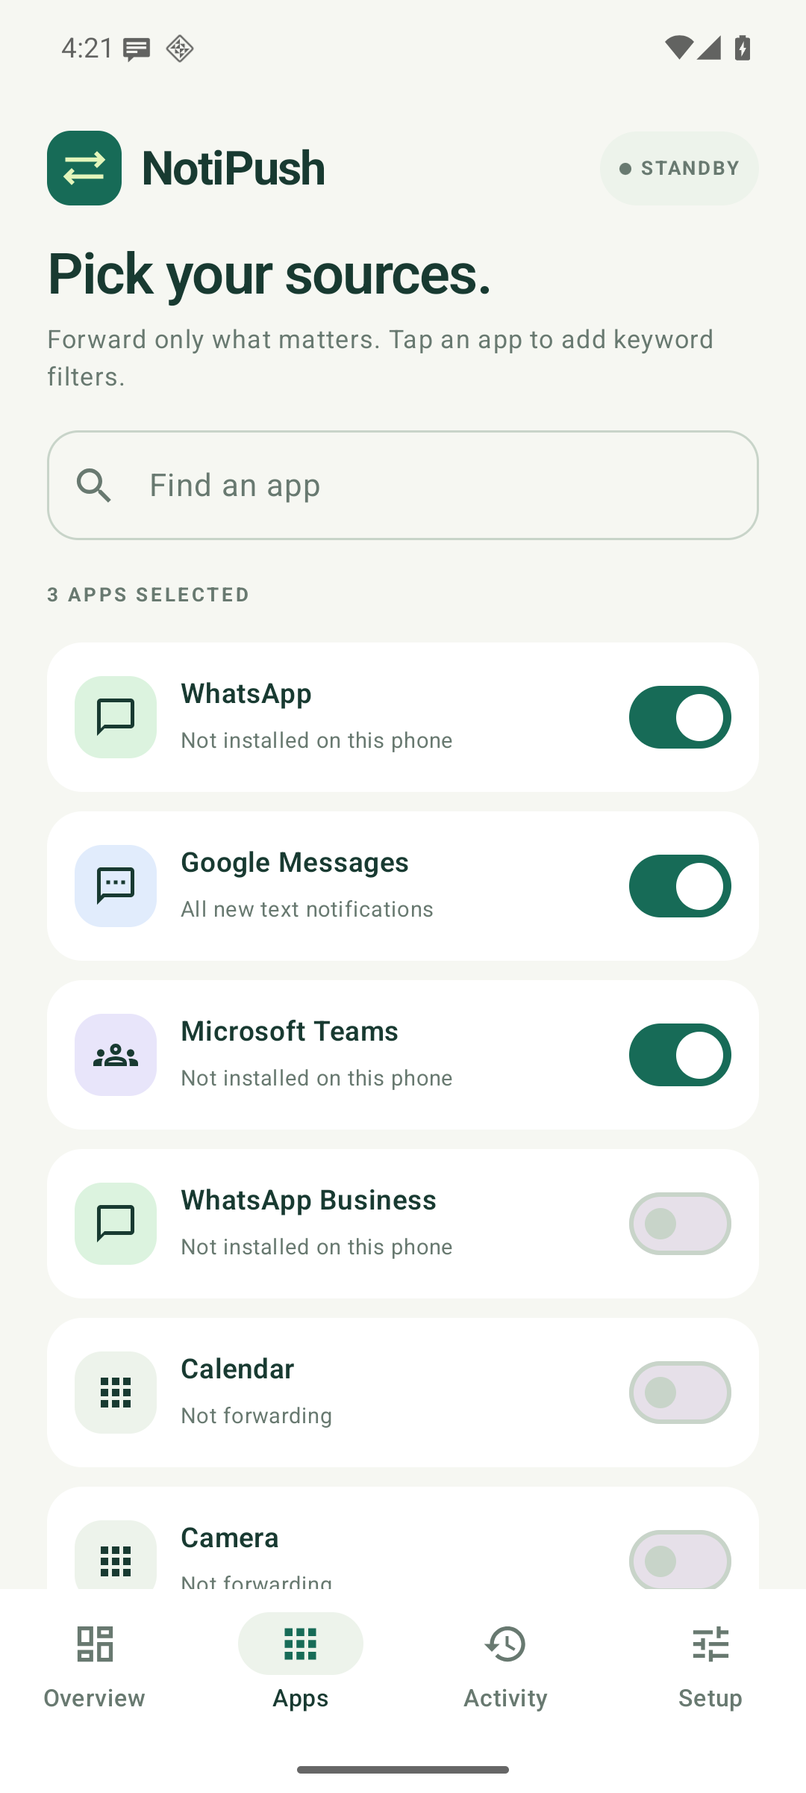
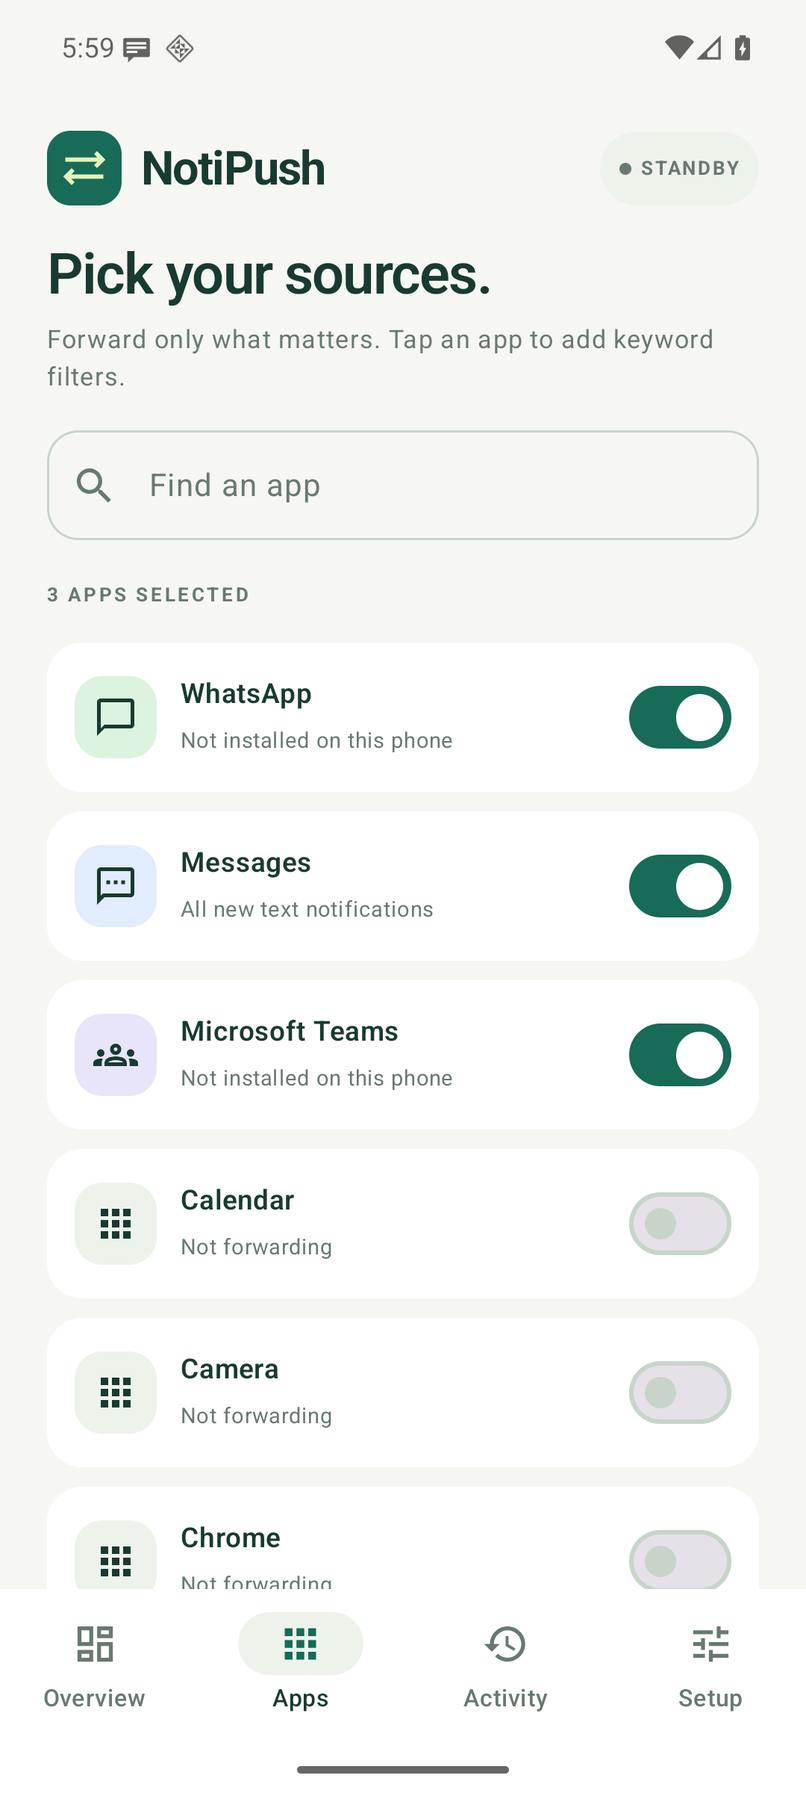
Prepare GitHub documentation and exclude local artifacts
Document installation, foreground delivery, clone-name configuration, verification scope, and release steps. Refresh demo screenshots, add contributor PR guidance and line-ending rules, and exclude runtime databases, diagnostics, debugging keys, signing material, and build outputs.

diff --git a/README.md b/README.md
@@ -14,7 +14,7 @@ WhatsApp · Google Messages · Teams · other selected apps
               iPhone · Apple Watch · other devices
 ```
 
-**Android 16+ · Kotlin · Jetpack Compose · Current release: 1.0.3**
+**Android 16+ · Kotlin · Jetpack Compose · Current release: 1.0.4**
 
 ## Screenshots
 
@@ -24,8 +24,9 @@ WhatsApp · Google Messages · Teams · other selected apps
 
 ## Features
 
-- Select individual apps. WhatsApp, Google Messages, and Microsoft Teams are preselected; WhatsApp Business and other installed launcher apps are available too.
-- Forward the app name, conversation or sender, message text, and original timestamp.
+- Select individual apps. WhatsApp, Messages, and Teams are the three starter apps. Other installed apps are available too; WhatsApp Business is no longer a separate starter entry.
+- Forward the app name, conversation or sender, message text, and original timestamp. OxygenOS WhatsApp copies have separate profile identities and configurable display names.
+- Run a persistent foreground bridge while forwarding is enabled, with a status notification and Pause action.
 - Filter each app by include/exclude keywords, ignoring case.
 - Send to all your Pushover devices or a named device, with low, normal, or high priority.
 - Suppress duplicate updates and group summaries; ignore ongoing notifications by default.
@@ -48,7 +49,7 @@ NotiPush has no service fee. Pushover's client licensing and [message allowance]
 
 Use the signed APK attached to a published GitHub release, when available, or [build a release locally](#build-a-signed-release). This repository keeps generated APKs in the ignored `dist/` directory rather than in Git history.
 
-Open the APK on your Android phone and allow installation from the source you chose when Android prompts. Updates must use the same signing key. Use **1.0.3 or newer** for the locked-phone delivery fix. Version 1.0.1 has a release-only startup crash fixed in 1.0.2. Installing a same-signer update preserves your settings; do not uninstall the working app first.
+Open the APK on your Android phone and allow installation from the source you chose when Android prompts. Updates must use the same signing key. Use **1.0.4 or newer** for persistent forwarding, AOD diagnostics, and separate clone identities. The earlier 1.0.3 change alone did not resolve the reported OnePlus AOD delay. Version 1.0.1 has a release-only startup crash fixed in 1.0.2. Installing a same-signer update preserves your settings; do not uninstall the working app first.
 
 ## Connect Pushover
 
@@ -75,11 +76,11 @@ Tap **Save destination → Send a test notification**. In **Activity**, **Accept
 2. In **Apps**, choose the notification sources you want.
 3. Tap an app to add optional keyword filters. Any include keyword can match; any exclude keyword blocks the notification. Leave both fields empty to forward all eligible text notifications from that app.
 4. In **Setup → Delivery while locked**, tap **Allow background delivery** and approve Android's battery optimization exemption. Confirm this row shows **Battery optimization exemption granted**.
-5. On OnePlus/OxygenOS, also allow background activity under **App info → Battery usage**. Enable auto launch if your build offers it; names vary by OS version.
-6. In **Overview**, turn forwarding on.
+5. On OnePlus/OxygenOS, allow background activity or auto launch **if your build offers those controls**. Some battery pages offer no controls; the app now shows the verified exemption and service state directly. Search system Settings for **Sleep standby optimization** and check whether it is reducing notifications. Do not change undocumented AOD settings.
+6. In **Overview**, turn forwarding on. Allow the status-notification permission when prompted, and check **Setup → Persistent forwarding → Service: running**. You can pause from the ongoing notification. Android can run the service when status notifications are denied, but its notification will be less visible.
 7. Lock the Android phone and receive a **new** message while its source app is in the background. Confirm the Pushover alert arrives before you unlock Android.
 
-After the check, **Setup → Connection check** shows the last capture and acceptance times and whether the screen was off/locked. These timestamps help distinguish a late listener callback from a late send. See [locked-phone troubleshooting](docs/TROUBLESHOOTING.md#notifications-wait-until-the-phone-is-unlocked).
+After the check, **Activity → Show delivery timing** gives the exact Android post, listener arrival, first/latest send attempt, and completion times, with AOD/screen state. **Setup → Recent listener events** also records skipped summaries, ongoing alerts, and cases where Android exposes no message text. See [locked-phone troubleshooting](docs/TROUBLESHOOTING.md#notifications-wait-until-the-phone-is-unlocked).
 
 ### 3. Finish on iPhone and Apple Watch
 
@@ -89,7 +90,7 @@ After the check, **Setup → Connection check** shows the last capture and accep
 
 ## Privacy and delivery behaviour
 
-Credentials and pending message payloads are encrypted using AES-GCM with an Android Keystore key. App backup and device transfer are disabled. Completed history contains the source app, timestamp, and status, without notification titles or bodies. Connection diagnostics retain the latest capture/acceptance times and a screen-off/locked flag only. Screenshots and recent-app previews are protected in the production app.
+Credentials and pending message payloads are encrypted using AES-GCM with an Android Keystore key. App backup and device transfer are disabled. Completed history contains the source app, timestamp, and status, without notification titles or bodies. Connection diagnostics retain post/receive/send times, display/power state, attempt counts, and metadata about the last 20 eligible-source listener callbacks. They contain no message titles, bodies, or Pushover keys. Screenshots and recent-app previews are protected in the production app.
 
 Forwarded text is sent directly to Pushover over HTTPS. **This integration is not end-to-end encrypted with Pushover**: Pushover can process the forwarded content. There is no NotiPush server, analytics SDK, or advertising SDK.
 
@@ -105,11 +106,17 @@ Forwarded text is sent directly to Pushover over HTTPS. **This integration is no
 
 Pausing forwarding, disabling an app, or changing the destination cancels the corresponding queued messages. A request already in flight may still arrive. Failed payloads are erased and cannot be replayed from history. If a network response is lost after Pushover accepts a request, a retry can produce a duplicate.
 
+### Names for cloned apps
+
+OxygenOS copies can share one package name while running in different Android profiles. NotiPush treats them as separate sources. On the tested OxygenOS 16 build, the clone-alias service requires the system-only `com.oplus.permission.safe.PROTECT` permission, so a normal APK cannot read those custom names through that service. The automatic lookup falls back to a profile identifier.
+
+In **Apps**, select each copy and set **Forwarded app name**, for example **WhatsApp SG** or **WhatsApp 2**, alongside its independent filters. Names are saved configuration on your phone; no account names are built into the app. Leave this blank to use the name Android exposes, with a profile suffix when needed. A restricted clone may appear after its first notification. Existing package-only rules provide a migration fallback.
+
 ### Delivery while locked
 
 Version 1.0.2 sent every notification through WorkManager. Android can defer scheduled work during sleep, so successful foreground delivery did not prove locked-phone delivery.
 
-Version 1.0.3 persists each message, registers its retry fallback, and immediately attempts HTTPS from the notification callback's background pipeline. Short partial wake locks cover capture and sending; each lock has a 45-second safety timeout and is released after use. A shared delivery lock prevents the live path and retry worker from posting the same queued message concurrently. WorkManager handles persistent retries, starting no earlier than 45 seconds after capture.
+Version 1.0.4 retains the immediate delivery path added in 1.0.3 and adds a persistent `remoteMessaging` foreground service for cross-device text forwarding. The listener takes a short CPU wake lock before decryption/parsing and hands off capture and HTTPS work without waiting for a scheduled job. Existing pending messages are also attempted when the service starts. Short partial wake locks cover capture and sending; each lock has a 45-second safety timeout and is released after use. A shared delivery lock prevents the live path and retry worker from posting the same queued message concurrently. WorkManager handles persistent retries, starting no earlier than 45 seconds after capture.
 
 **The battery exemption still matters:** a wake lock alone does not grant network access in deep Doze. NotiPush requests the exemption only when you tap the setup button. Android documents notification/task automation among the relevant use cases. See [Android's Doze guidance](https://developer.android.com/training/monitoring-device-state/doze-standby#support_for_other_use_cases).
 
@@ -144,15 +151,19 @@ The debug APK is written to `app/build/outputs/apk/debug/app-debug.apk`. Debug a
 
 The script creates a local signing key once in `~/.local/share/notipush/signing/`, outside the repository, and reuses it for later updates. **Keep a secure backup of this directory.** Set `NOTIPUSH_SIGNING_DIR` to use a different private location. OpenSSL, `keytool`, and `shasum` must be available.
 
-The output is `dist/NotiPush-1.0.3.apk` and `dist/SHA256SUMS`. Before copying the APK, the script verifies its v2/v3 signatures, production manifest, ZIP integrity, ARM64 support, 16 KB alignment, and the reflective constructors in the minified DEX.
+The output is `dist/NotiPush-1.0.4.apk` and `dist/SHA256SUMS`. Before copying the APK, the script verifies its v2/v3 signatures, production manifest, ZIP integrity, ARM64 support, 16 KB alignment, and the reflective constructors in the minified DEX.
 
 Verify the installed **release** as well:
 
 ```sh
-python3 scripts/smoke-release.py --serial YOUR_DEVICE --expected-version 1.0.3
+python3 scripts/smoke-release.py --serial YOUR_DEVICE --expected-version 1.0.4
 ```
 
 This preserves app data, performs two cold starts, checks that each process survives for 15 seconds, verifies the main navigation, and checks for new crashes. Keep the app in the foreground during the check.
+
+For a read-only power-state snapshot, use `python3 scripts/diagnose-background.py --serial YOUR_DEVICE`. Add `--app-report` **after** a delivery test to retrieve metadata from the running service. This invokes app dump code, so do not poll it during an unattended test. Reports exclude keys and notification text; keep the remaining device metadata private.
+
+The current physical AOD evidence is **one manually generated WhatsApp notification**, accepted by Pushover about **745 ms** after Android posted it. See [verification scope](docs/VERIFICATION.md) for completed checks and untested scenarios.
 
 ## Project structure
 
@@ -164,6 +175,7 @@ This preserves app data, performs two cold starts, checks that each process surv
 | `scripts/build-release.sh` | Signed APK creation and validation |
 | `scripts/verify-apk.py` | Packaging and minified-entry-point regression checks |
 | `scripts/smoke-release.py` | Installed release startup checks |
+| `scripts/diagnose-background.py` | Read-only AOD, idle, process, exemption, and optional app timing report |
 | `scripts/diagnose-install.py` | Device installation diagnostics; read-only unless `--try-install` is passed |
 | `docs/` | Troubleshooting, verification scope, and screenshots |
 

diff --git a/docs/TROUBLESHOOTING.md b/docs/TROUBLESHOOTING.md
@@ -13,15 +13,16 @@ Save your Pushover destination, then tap **Send a test notification**. This test
 
 ## Notifications wait until the phone is unlocked
 
-Update to **1.0.3 or newer**, using the same signing identity. Keep the existing installation so your Pushover settings survive.
+Update to **1.0.4 or newer**, using the same signing identity. Keep the existing installation so your Pushover settings survive.
 
-The old delivery path relied entirely on WorkManager, which Android can defer during sleep. The updated app attempts delivery immediately and uses WorkManager for persistent retries. Network access during deep Doze also requires the battery exemption; a CPU wake lock alone is insufficient. [Android's explanation](https://developer.android.com/training/monitoring-device-state/doze-standby).
+Version 1.0.2 relied entirely on WorkManager, which Android can defer during sleep. Version 1.0.3 added immediate delivery but did not resolve the reported OnePlus AOD issue. Version 1.0.4 adds a persistent foreground messaging service and takes the CPU wake lock earlier in the callback. WorkManager remains the persistent retry fallback. Network access during deep Doze also requires the battery exemption; a CPU wake lock alone is insufficient. [Android's explanation](https://developer.android.com/training/monitoring-device-state/doze-standby).
 
 1. Open **Setup → Delivery while locked → Allow background delivery** and approve the Android prompt. Check that the row reports **Battery optimization exemption granted**.
-2. On OnePlus/OxygenOS, allow background activity in **App info → Battery usage**. Enable auto launch if available. Menu names vary; an app battery mode called **Unrestricted** may coexist with Android's optimization exemption, so check the green status inside NotiPush too.
-3. Confirm notification access, source selection, filters, and forwarding are enabled.
-4. Lock Android, receive a new notification from a selected app, and check Pushover **before** unlocking Android. Avoid keeping the source conversation open on another device if that suppresses phone notifications.
-5. Unlock Android and inspect **Setup → Connection check** and **Activity**.
+2. Check **Setup → Persistent forwarding → Service: running**. Allow the status-notification permission so the ongoing notification is visible.
+3. On OnePlus/OxygenOS, use background activity or auto launch controls only if your build offers them. If its battery page has no controls, return to NotiPush rather than repeatedly opening that page. Check **Sleep standby optimization** in system Settings; it may reduce notification frequency.
+4. Confirm notification access, source selection, filters, and forwarding are enabled.
+5. Lock Android, receive a new notification from a selected app, and check Pushover **before** unlocking Android. Avoid keeping the source conversation open on another device if that suppresses phone notifications.
+6. After the test, inspect **Activity → Show delivery timing** and **Setup → Recent listener events**.
 
 | Observation | Meaning / next step |
 | --- | --- |
@@ -32,7 +33,25 @@ The old delivery path relied entirely on WorkManager, which Android can defer du
 
 The timestamps describe the latest eligible captured notification and the latest accepted request; accepted requests include manual tests. They do not prove that a specific iPhone/Watch displayed an alert. Android may redact sensitive notification text and work-profile policy can block access.
 
-Physical OnePlus verification of this update remains a manual check. The automated test exercises a real system listener with the screen off and forced deep Doze, using a local HTTPS mock instead of real Pushover credentials. See [verification scope](VERIFICATION.md).
+A single real WhatsApp notification has been verified on AOD on a OnePlus 13R with 1.0.4. Repeated, long-idle, unplugged, and all-source physical tests remain outstanding. The automated test uses instrumentation inside the app, a real listener, forced deep Doze, and a local HTTPS mock; instrumentation can influence process lifetime. See [verification scope](VERIFICATION.md).
+
+## Clone names show a profile number
+
+The tested OxygenOS 16 build protects its App Cloner alias service with `com.oplus.permission.safe.PROTECT`, a signature/privileged permission. Notification access does not grant that permission. A profile suffix is therefore the safe fallback when the OS does not expose the custom label.
+
+Open **Apps**, tap the individual copy, enter **Forwarded app name**, and save. This is local configuration per profile, not an account-name constant in the APK. It affects future notifications; already delivered Pushover titles are unchanged. WhatsApp Business is no longer a starter entry.
+
+## Collect AOD diagnostics
+
+```sh
+# Read-only OS state: AOD/display, idle, app process, app-ops, and exemption.
+python3 scripts/diagnose-background.py --serial YOUR_DEVICE
+
+# After the test, include the app's metadata-only timing report.
+python3 scripts/diagnose-background.py --serial YOUR_DEVICE --app-report
+```
+
+The optional app report invokes service dump code and must not be polled to prove unattended delivery. For an unplugged test, use paired wireless debugging or reconnect USB only after observing whether the receiving device got the alert. USB charging and ADB observation can change the phone's power state. Default reports are written privately outside the repository. For a custom output path, use the ignored `diagnostics/` directory and review metadata before sharing.
 
 ## Notification access is restricted
 

diff --git a/docs/VERIFICATION.md b/docs/VERIFICATION.md
@@ -1,5 +1,30 @@
 # Verification — 29 October 2026
 
+## Version 1.0.4 — persistent forwarding and profile identities
+
+| Check | Result |
+| --- | --- |
+| Unit tests on API 36/37 framework models | 67 passed, 0 failed |
+| Android 16 ARM64 emulator suite | 5 passed; focused Doze/privacy regression also passed after diagnostics changes |
+| Forced-Doze path | Foreground service running; fresh listener callback, actual HTTPS to a local TLS mock, timing recorded, and Pause action verified |
+| Database upgrade | Version 1 encrypted queued rows survive version 2 timing-schema migration |
+| Profile rules | Independent clone identities, legacy fallback, display-name persistence, and observed-profile discovery passed |
+| Diagnostic helper tests | 11 passed |
+| Lint | 0 errors; non-fatal warnings remain |
+| Signed, minified APK | v2/v3 signatures, reflection entry points including the foreground service, CRC, ARM64, and static 16 KB alignment passed |
+| Manual signed upgrade on OnePlus 13R / OxygenOS 16 | 1.0.4 installed; existing configuration retained |
+| Two physical signed-release cold starts | Each survived 15 seconds, rendered navigation, and produced no new NotiPush crash |
+| Physical service state | Notification access and exemption granted; foreground service running; destination configuration present |
+| Physical WhatsApp notification on AOD | One manually generated clone notification captured and accepted while the display remained in AOD |
+
+For that one physical notification, Android post → listener arrival was **128 ms**, the first send began **207 ms** after posting, and Pushover accepted it **745 ms** after posting. Post, receive, first attempt, and completion are retained as metadata, without message text. The user also confirmed AOD delivery.
+
+**Limits:** one notification is not a reliability or soak test. Repeated/burst messages, every WhatsApp profile, Google Messages, Teams, long idle, unplugged operation, and physical offline/reconnect cases have not all been verified. The phone was USB-connected during the measured sample. Instrumented emulator tests run inside the app and can influence process lifetime; they do not establish unattended OEM behaviour. Android 17 and 16 KB runtime limitations recorded below still apply.
+
+On this build the clone-alias endpoint rejects callers without `com.oplus.permission.safe.PROTECT`, defined by the OS as **signature|privileged**. The app distinguishes clone profiles, but automatic custom aliases are unavailable through that endpoint. Use the per-copy display-name setting; no personal account-name mapping is embedded in the APK. Device-specific manual setup is separate from source verification.
+
+A normal ADB update request stalled behind the vendor verifier without a visible approval prompt. Opening the APK manually completed the signed upgrade. No verifier, system permission boundary, AOD setting, or app data was disabled/erased to make installation succeed.
+
 ## Version 1.0.3 — locked-screen delivery
 
 The prior implementation handed every message to WorkManager. That made the initial send subject to job scheduling during sleep. The update persists and schedules the retry first, then sends immediately on a dedicated background executor. Capture and sending use partial wake locks with 45-second safety timeouts, released after use. The live sender and retry worker share delivery coordination; queue rows remain recoverable after process death.
@@ -23,7 +48,7 @@ Setup now requests Android's battery optimization exemption on an explicit tap a
 
 The instrumented Doze test runs only on a disposable emulator. It uses synthetic content, placeholder keys, and an ephemeral local TLS certificate. It does not contact Pushover. Cleanup exits forced idle, resets simulated battery state, restores the prior battery exemption, and removes the test listener grant. Screenshots were refreshed from empty demo settings, including the new [background-delivery setup](screenshots/background.png).
 
-The OnePlus is disconnected for this update; **1.0.3 has not yet been tested on the physical OnePlus or against real Pushover / iPhone / Apple Watch delivery**. The user will install the signed update and perform the locked-phone check in the README. Android 17/16 KB runtime limitations below still apply. GitHub Actions is configured but has not run on a remote repository.
+At its release, 1.0.3 had not been physically tested on the OnePlus. The subsequent user test still showed AOD delays; the instrumented emulator result alone was insufficient. The 1.0.4 section above records the later physical evidence. Android 17/16 KB runtime limitations below still apply. GitHub Actions is configured but has not run on a remote repository.
 
 ## Version 1.0.2 — physical OnePlus diagnosis and release fix
 

diff --git a/CHANGELOG.md b/CHANGELOG.md
@@ -1,5 +1,17 @@
 # Changelog
 
+## 1.0.4 — 2026-10-29
+
+- Added a persistent foreground messaging service with an ongoing status and Pause action.
+- Added earlier CPU wake-lock coverage and immediate recovery of pending rows when the service starts.
+- Replaced the settings-list notification-access check with Android’s authoritative component-access API.
+- Added per-delivery post/receive/attempt/completion timing, AOD/power states, and metadata-only listener observations.
+- Added protected Android service-dump diagnostics and a read-only background-state helper.
+- Made sources profile-aware so OxygenOS WhatsApp clones use separate labels, filters, and queues.
+- Added best-effort OxygenOS clone-name lookup, observed-clone discovery, and per-copy name overrides. The tested ROM restricts its alias service to privileged callers, so custom names need configuration.
+- Removed WhatsApp Business from the starter list and explicit package queries.
+- Preserved encrypted settings, queued payloads, and deduplication across the schema update.
+
 ## 1.0.3 — 2026-10-29
 
 - Added immediate forwarding from the notification listener instead of waiting for a scheduled job.

diff --git a/CONTRIBUTING.md b/CONTRIBUTING.md
@@ -23,7 +23,7 @@ Tests and CI use synthetic notification text and mock API responses. The locked 
 
 - Describe the user-visible problem, resulting behaviour, and checks performed.
 - Add regression coverage for delivery, filtering, storage, concurrency, or lifecycle changes.
-- Test background/lifecycle changes with the phone locked as well as unlocked.
+- Test background/lifecycle changes with the phone locked as well as unlocked. Record plugged/unplugged state and avoid app-report polling during the measurement; instrumentation can affect process lifetime. Do not describe one message or a local mock test as a reliability test.
 - For shrinking or dependency changes, verify the signed, minified APK and run the release smoke check. Debug tests do not exercise R8's output.
 - Update the README and changelog when setup, supported versions, or delivery behaviour changes.
 

diff --git a/.github/pull_request_template.md b/.github/pull_request_template.md
@@ -1,0 +1,9 @@
+## Change
+
+Describe the problem and the resulting behaviour.
+
+## Validation
+
+List the relevant checks and Android versions tested. For delivery changes, include whether the screen stayed off and whether the test used a real device or an emulator.
+
+Keep Pushover keys, signing credentials, message text, and private device reports out of the PR.
